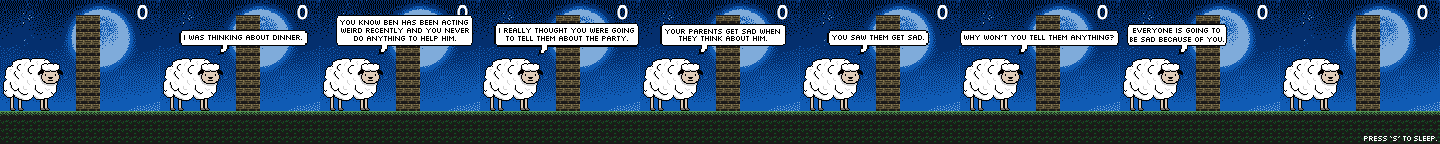
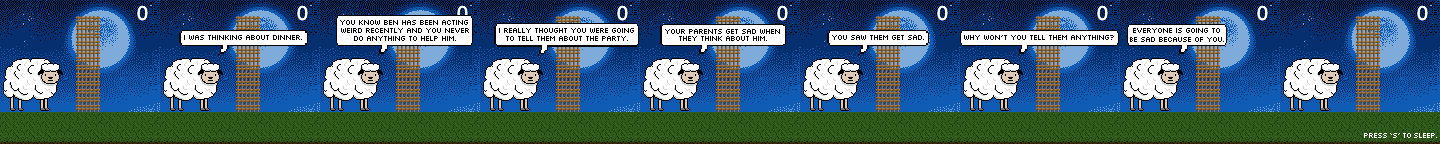
room clean scene; replaced sheep sprites

diff --git a/Day1Sheep.js b/Day1Sheep.js
@@ -4,7 +4,7 @@ let fence;
 let score = 0;
 
 function preload() {
-    sheetImg = loadImage("assets/Tiles-and-Enemies.png" );
+    sheetImg = loadImage("assets/Ground.png" );
     sky = loadImage("assets/NightSky.gif");
     sheep = new Sprite(5, 10, 60, 52);
     sheep.spriteSheet = 'assets/SheepSprite.png';
@@ -30,29 +30,41 @@ function setup() {
     grass = new Group();
     grass.collider = "static";
     grass.spriteSheet = sheetImg;
-    grass.addAni({ w:8, h:8, row: 3, col: 3});
+    grass.addAni({ w:8, h:8, row: 0, col: 0});
     grass.tile = 'g';
+    
+    grass2 = new Group();
+    grass2.collider = "static";
+    grass2.spriteSheet = sheetImg;
+    grass2.addAni({ w:8, h:8, row: 0, col: 1});
+    grass2.tile = 'r';
     
     fence = new Group();
     fence.collider = "static";
     fence.spriteSheet = sheetImg;
-    fence.addAni({ w:8, h:8, row: 10, col: 3});
+    fence.addAni({ w:8, h:8, row: 0, col: 4});
     fence.tile = 'f';
     
     dirt = new Group();
     dirt.collider = "static";
     dirt.spriteSheet = sheetImg;
-    dirt.addAni({ w:8, h:8, row: 9, col: 1});
+    dirt.addAni({ w:8, h:8, row: 0, col: 2});
     dirt.tile = 'd';
+    
+    dirt2 = new Group();
+    dirt2.collider = "static";
+    dirt2.spriteSheet = sheetImg;
+    dirt2.addAni({ w:8, h:8, row: 0, col: 3});
+    dirt2.tile = 'i';
 
     new Tiles(
         [
-                '..........fff........',
             '..........fff........',
-            'ggggggggggggggggggggg',
-            'ddddddddddddddddddddd',
-            'ddddddddddddddddddddd',
-            'ddddddddddddddddddddd',
+            '..........fff........',
+            'rggrgrggrgggrggrgrgrg',
+            'rggrgrgrggrgrrgggggrr',
+            'grgrgggrrrgrgggrgrgrg',
+            'ddidididddiiiddididdd',
 
         ],
         0, 100, // x, y
@@ -72,7 +84,6 @@ function draw() {
 
     if (kb.pressing('left')) {
         sheep.vel.x = -1;
-        // sheep.changeAni('left');
     }
     else if (kb.pressing('right')) {
         sheep.vel.x = 1;

diff --git a/Day2Sheep.js b/Day2Sheep.js
@@ -4,7 +4,7 @@ let fence;
 let score = 0;
 
 function preload() {
-    sheetImg = loadImage("assets/Tiles-and-Enemies.png" );
+    sheetImg = loadImage("assets/Ground.png" );
     sky = loadImage("assets/NightSky.gif");
     sheep = new Sprite(5, 10, 60, 52);
     sheep.spriteSheet = 'assets/SheepSprite.png';
@@ -30,35 +30,46 @@ function setup() {
     grass = new Group();
     grass.collider = "static";
     grass.spriteSheet = sheetImg;
-    grass.addAni({ w:8, h:8, row: 3, col: 3});
+    grass.addAni({ w:8, h:8, row: 0, col: 0});
     grass.tile = 'g';
+    
+    grass2 = new Group();
+    grass2.collider = "static";
+    grass2.spriteSheet = sheetImg;
+    grass2.addAni({ w:8, h:8, row: 0, col: 1});
+    grass2.tile = 'r';
     
     fence = new Group();
     fence.collider = "static";
     fence.spriteSheet = sheetImg;
-    fence.addAni({ w:8, h:8, row: 10, col: 3});
+    fence.addAni({ w:8, h:8, row: 0, col: 4});
     fence.tile = 'f';
     
     dirt = new Group();
     dirt.collider = "static";
     dirt.spriteSheet = sheetImg;
-    dirt.addAni({ w:8, h:8, row: 9, col: 1});
+    dirt.addAni({ w:8, h:8, row: 0, col: 2});
     dirt.tile = 'd';
+    
+    dirt2 = new Group();
+    dirt2.collider = "static";
+    dirt2.spriteSheet = sheetImg;
+    dirt2.addAni({ w:8, h:8, row: 0, col: 3});
+    dirt2.tile = 'i';
 
     new Tiles(
         [
-
             '..........fff........',
             '..........fff........',
             '..........fff........',
             '..........fff........',
-            'ggggggggggggggggggggg',
-            'ddddddddddddddddddddd',
-            'ddddddddddddddddddddd',
-            'ddddddddddddddddddddd',
+            'rggrgrggrgggrggrgrgrg',
+            'rggrgrgrggrgrrgggggrr',
+            'grgrgggrrrgrgggrgrgrg',
+            'ddidididddiiiddididdd',
 
         ],
-        0, 80, // x, y
+        0, 84, // x, y
         8, 8 // w, h
     );
 

diff --git a/Clean.js b/Clean.js
@@ -1,0 +1,29 @@
+let clean;
+
+function preload() {
+	sheetImg = loadImage("assets/CleanBG.png");
+}
+
+function setup() {
+    new Canvas(160, 144, 'pixelated x4');
+    clean = loadAnimation('assets/CleanStuff.png', { frameSize: [160, 144], frames: 12 });
+    cleanFrame = loadAnimation('assets/CleanFrame.png', { frameSize: [160, 144], frames: 3 });    
+}
+
+function draw() {
+    clear();
+    background(sheetImg)
+    frameRate(40)
+    animation(cleanFrame, 80, 72);
+    animation(clean, 80, 72);
+    
+    clean.stop();
+    clean.noLoop();
+    if (kb.presses('ArrowRight')) {
+        clean.nextFrame();
+    }
+    if (kb.presses('t')) {
+        location.href = "index7.html";
+    }
+}
+

diff --git a/index6.5.html b/index6.5.html
@@ -1,0 +1,19 @@
+<!DOCTYPE html>
+<html lang="en">
+  
+  <head>
+    <meta charset="utf-8" />
+    <meta name="viewport" content="width=device-width, initial-scale=1.0">
+    <title>spritesheet demo</title>
+    <link rel="stylesheet" type="text/css" href="style.css">
+    <script src="libraries/p5.min.js"></script>
+    <!-- <script src="libraries/p5.sound.min.js"></script> -->
+    <script src="libraries/planck.min.js"></script>
+    <script src="libraries/p5play.min.js"></script>
+  </head>
+
+  <body>
+    <script src="Clean.js"></script>
+  </body>
+
+</html>

diff --git a/Day4Call.js b/Day4Call.js
@@ -2,7 +2,7 @@ let call;
 
 function setup() {
     new Canvas(160, 144, 'pixelated x4');
-    call = loadAnimation('assets/Day4Call.png', { frameSize: [160, 144], frames: 10});
+    call = loadAnimation('assets/Day4Call.png', { frameSize: [160, 144], frames: 9});
     
 }
 

diff --git a/Day2Bedroom1.js b/Day2Bedroom1.js
@@ -105,7 +105,7 @@ function draw() {
     }
     if (boy.overlaps(bottle)) {
         bottle.remove();
-        location.href = "index7.html";
+        location.href = "index6.5.html";
     }
 }
 
